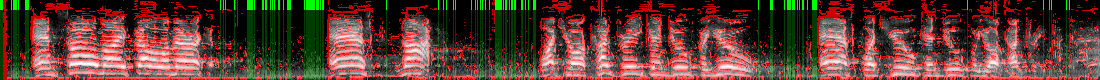
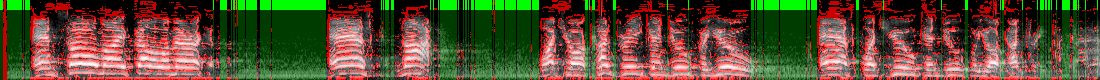
BUG FIX: whisper hallucincates if mel spec has uneven columns

diff --git a/mel_spec/src/vad.rs b/mel_spec/src/vad.rs
@@ -56,13 +56,13 @@ impl DetectionSettings {
     }
 
     /// Signals below this threshold will not be counted in edge detection.
-    /// `1 is a good default.
+    /// `1.0` is a good default.
     pub fn energy_threshold(&self) -> f64 {
         self.energy_threshold
     }
 
     /// The min length of a detectable gradient in x-asis frames.
-    /// `4` is a good default.
+    /// `10` is a good default.
     pub fn min_intersections(&self) -> usize {
         self.min_intersections
     }
@@ -120,7 +120,8 @@ impl VoiceActivityDetector {
         if buffer_len > min_frames {
             // check if we are at cutable frame position
             let window = &self.mel_buffer[buffer_len - min_intersections * 2..];
-            let ni = vad_boundaries(&window, &self.settings).non_intersected();
+            let edge_info = vad_boundaries(&window, &self.settings);
+            let ni = edge_info.non_intersected();
             if ni.len() > 0 {
                 if ni[ni.len() - 1] == ni.len() - 1 {
                     let idx = buffer_len - (min_intersections * 2);
@@ -131,7 +132,7 @@ impl VoiceActivityDetector {
                     // frames to carry forward to the new buffer
                     self.mel_buffer = self.mel_buffer[idx..].to_vec();
 
-                    if frames.len() > 0 {
+                    if frames.len() > 0 && edge_info.is_speech() {
                         return Some((cutsec, frames.clone()));
                     }
                 }
@@ -197,8 +198,8 @@ pub fn vad_boundaries(frames: &[Array2<f64>], settings: &DetectionSettings) -> E
     let mut gradient_positions = HashSet::new(); // Change Vec to HashSet
 
     for x in 0..width - 2 {
-        let num_intersections = (min_mel..height - 2)
-            .filter(|&y| gradient_mag[(y, x)] >= threshold)
+        let num_intersections = (0..height - 2)
+            .filter(|&y| gradient_mag[(y, x)] >= threshold && y >= min_mel)
             .count();
 
         if num_intersections < intersection_threshold {
@@ -210,7 +211,7 @@ pub fn vad_boundaries(frames: &[Array2<f64>], settings: &DetectionSettings) -> E
             // Store the gradient positions for this column
             for y in 0..height - 2 {
                 if gradient_mag[(y, x)] >= threshold {
-                    gradient_positions.insert((x, y - min_mel));
+                    gradient_positions.insert((x, y));
                 }
             }
         }
@@ -246,6 +247,24 @@ impl EdgeInfo {
             non_intersected_columns,
             intersected_columns,
             gradient_positions,
+        }
+    }
+
+    /// WIP. Its important to drop high energy frames that lack obvious
+    /// structure in the mel bands as these "empty" frames are highly
+    /// hallucinogenic to Whispser model.
+    pub fn is_speech(&self) -> bool {
+        let ni = self.non_intersected().len() as f32;
+        let is = self.intersected().len() as f32;
+
+        if ni == 0.0 && is == 0.0 {
+            false
+        } else if ni == 0.0 {
+            true
+        } else if is == 0.0 {
+            false
+        } else {
+            ni / is < 5.0
         }
     }
 
@@ -360,13 +379,50 @@ mod tests {
     use super::*;
     use crate::quant::{load_tga_8bit, to_array2};
 
+    //#[test]
+    fn test_speech_detection() {
+        let n_mels = 80;
+        let settings = DetectionSettings {
+            energy_threshold: 1.0,
+            min_intersections: 10,
+            intersection_threshold: 10,
+            min_mel: 0,
+            min_frames: 100,
+        };
+
+        let ids = vec![21168, 23760, 41492, 41902, 63655, 7497, 39744];
+        for id in ids {
+            let file_path = format!("../testdata/blank/frame_{}.tga", id);
+            let dequantized_mel = load_tga_8bit(&file_path).unwrap();
+            let frames = to_array2(&dequantized_mel, n_mels);
+
+            let edge_info = vad_boundaries(&[frames.clone()], &settings);
+            dbg!(edge_info.non_intersected().len() / edge_info.intersected().len());
+
+            //assert!(edge_info.gradient_count < 800);
+        }
+
+        let ids = vec![11648, 2889, 4694, 4901, 27125];
+        for id in ids {
+            let file_path = format!("../testdata/speech/frame_{}.tga", id);
+            let dequantized_mel = load_tga_8bit(&file_path).unwrap();
+            let frames = to_array2(&dequantized_mel, n_mels);
+
+            let edge_info = vad_boundaries(&[frames.clone()], &settings);
+            dbg!(edge_info.gradient_count());
+            dbg!(edge_info.non_intersected().len() / edge_info.intersected().len());
+
+            //assert!(edge_info.gradient_count > 800);
+        }
+    }
+
     #[test]
     fn test_vad_boundaries() {
         let n_mels = 80;
         let settings = DetectionSettings {
             energy_threshold: 1.0,
             min_intersections: 10,
-            intersection_threshold: 5,
+            intersection_threshold: 10,
             min_mel: 0,
             min_frames: 100,
         };

diff --git a/examples/stream_whisper/src/main.rs b/examples/stream_whisper/src/main.rs
@@ -18,6 +18,16 @@ struct Command {
     model_path: String,
     #[structopt(short, long, default_value = "./mel_out")]
     out_path: String,
+    #[structopt(long, default_value = "1.0")]
+    energy_threshold: f64,
+    #[structopt(long, default_value = "5")]
+    min_intersections: usize,
+    #[structopt(long, default_value = "10")]
+    intersection_threshold: usize,
+    #[structopt(long, default_value = "10")]
+    min_mel: usize,
+    #[structopt(long, default_value = "100")]
+    min_frames: usize,
 }
 
 fn main() {
@@ -25,13 +35,25 @@ fn main() {
     let model_path = args.model_path;
     let mel_path = args.out_path;
 
+    let energy_threshold = args.energy_threshold;
+    let min_intersections = args.min_intersections;
+    let intersection_threshold = args.intersection_threshold;
+    let min_mel = args.min_mel;
+    let min_frames = args.min_frames;
+
     let fft_size = 400;
     let hop_size = 160;
     let n_mels = 80;
     let sampling_rate = 16000.0;
 
     let mel_settings = MelConfig::new(fft_size, hop_size, n_mels, sampling_rate);
-    let vad_settings = DetectionSettings::new(1.0, 4, 10, 0, 100);
+    let vad_settings = DetectionSettings::new(
+        energy_threshold,
+        min_intersections,
+        intersection_threshold,
+        min_mel,
+        min_frames,
+    );
 
     let config = PipelineConfig::new(mel_settings, vad_settings);
 
@@ -59,7 +81,6 @@ fn main() {
             params.set_print_progress(false);
             params.set_print_realtime(false);
             params.set_print_timestamps(false);
-
             state.set_mel(&mel).unwrap();
             let empty = vec![];
             state.full(params, &empty[..]).unwrap();
@@ -79,7 +100,7 @@ fn main() {
     handles.push(handle);
 
     // read audio from pipe
-    const LEN: usize = 1024;
+    const LEN: usize = 128;
     let mut input: Box<dyn Read> = Box::new(io::stdin());
 
     let mut buffer = [0; LEN];
@@ -96,7 +117,7 @@ fn main() {
 
         if bytes_read == LEN {
             let samples = deinterleave_vecs_f32(&buffer, 1);
-            for chunk in samples[0].chunks(1024 / 4) {
+            for chunk in samples[0].chunks(LEN / 4) {
                 let _ = pipeline.send_pcm(chunk);
             }
             bytes_read = 0;

diff --git a/mel_spec/src/mel.rs b/mel_spec/src/mel.rs
@@ -85,17 +85,31 @@ pub fn interleave_frames(
     min_width: usize,
 ) -> Vec<f32> {
     let mut num_frames = frames.len();
+
     assert!(num_frames > 0, "frames is empty");
+    assert!(min_width % 2 == 0, "min_width must be even");
+
     let num_filters = frames[0].shape()[0];
+
+    let mut frames = frames.to_vec();
+
+    // Ensure an even number of frames by padding with a zeroed frame if necessary
+    // *important* mel spectrograms must have even number of columns, otherwise
+    // whisper model will give random results.
+    if num_frames % 2 != 0 {
+        frames.push(Array2::from_shape_fn((num_filters, 1), |(_, _)| 0.0));
+        num_frames += 1;
+    }
 
     // Calculate the combined width along Axis(1) of all frames
     let combined_width: usize = frames.iter().map(|frame| frame.shape()[1]).sum();
 
     // Determine the required padding
-    let padding = combined_width.max(min_width).saturating_sub(combined_width);
+    let padding = min_width.saturating_sub(combined_width);
+    let padded_width = combined_width + padding;
 
     // Create a new Array2 with the required padding
-    let padded_frame = Array2::from_shape_fn((num_filters, padding), |(_, _)| 0.0);
+    let padded_frame = Array2::from_shape_fn((num_filters, padded_width), |(_, _)| 0.0);
 
     // Insert the padded frame to the end of the frames array if padding is needed
     let mut frames_with_padding = frames.to_vec();
@@ -104,8 +118,7 @@ pub fn interleave_frames(
         num_frames += 1;
     }
 
-    let mut interleaved_data =
-        Vec::with_capacity(num_frames * num_filters * (combined_width + padding));
+    let mut interleaved_data = Vec::with_capacity(num_frames * num_filters * padded_width);
 
     if major_column_order {
         for frame_idx in 0..num_frames {

diff --git a/examples/tga_whisper/src/main.rs b/examples/tga_whisper/src/main.rs
@@ -1,0 +1,55 @@
+use mel_spec::prelude::*;
+use mel_spec::vad::{duration_ms_for_n_frames, format_milliseconds};
+use mel_spec_audio::deinterleave_vecs_f32;
+use mel_spec_pipeline::{Pipeline, PipelineConfig};
+use std::io::{self, Read};
+use std::thread;
+use structopt::StructOpt;
+use whisper_rs::*;
+
+#[derive(Debug, StructOpt)]
+#[structopt(name = "mel_spec_example", about = "mel_spec whisper example app")]
+struct Command {
+    #[structopt(
+        short,
+        long,
+        default_value = "./../../../whisper.cpp/models/ggml-medium.en.bin"
+    )]
+    model_path: String,
+    #[structopt(short, long)]
+    tga_path: String,
+}
+
+fn main() {
+    let args = Command::from_args();
+    let model_path = args.model_path;
+    let tga_path = args.tga_path;
+
+    let ctx = WhisperContext::new(&model_path).expect("failed to load model");
+    let mut state = ctx.create_state().expect("failed to create key");
+    let mel = load_tga_8bit(&tga_path).unwrap();
+
+    let mut params = FullParams::new(SamplingStrategy::Greedy { best_of: 0 });
+    params.set_n_threads(1);
+    params.set_single_segment(true);
+    params.set_language(Some("en"));
+    params.set_print_special(false);
+    params.set_print_progress(false);
+    params.set_print_realtime(false);
+    params.set_print_timestamps(false);
+
+    state.set_mel(&mel).unwrap();
+    let empty = vec![];
+    state.full(params, &empty[..]).unwrap();
+
+    let num_segments = state.full_n_segments().unwrap();
+    println!("Got {}", num_segments);
+
+    if num_segments > 0 {
+        if let Ok(text) = state.full_get_segment_text(0) {
+            println!("{}", text);
+        } else {
+            println!("Error retrieving text for segment.");
+        }
+    }
+}

diff --git a/mel_spec_pipeline/src/lib.rs b/mel_spec_pipeline/src/lib.rs
@@ -108,6 +108,7 @@ impl Pipeline {
             }
 
             if let Some((idx, frames)) = vad.flush() {
+                eprintln!("flushing vad");
                 if let Some(stt_tx) = stt_tx_clone.lock().unwrap().as_ref() {
                     let interleaved_frames = interleave_frames(&frames.clone(), false, 100);
                     if let Err(send_error) = stt_tx.send((idx, interleaved_frames)) {
@@ -174,7 +175,7 @@ mod tests {
         let sampling_rate = 16000.0;
 
         let mel_settings = MelConfig::new(fft_size, hop_size, n_mels, sampling_rate);
-        let vad_settings = DetectionSettings::new(1.0, 5, 10, 0, 100);
+        let vad_settings = DetectionSettings::new(1.0, 10, 5, 0, 100);
 
         let config = PipelineConfig::new(mel_settings, vad_settings);
 
@@ -199,6 +200,6 @@ mod tests {
             handle.join().unwrap();
         }
 
-        assert_eq!(res.len(), 10);
+        assert_eq!(res.len(), 6);
     }
 }

diff --git a/examples/tga_whisper/README.md b/examples/tga_whisper/README.md
@@ -1,0 +1,53 @@
+# Real-time example with whisper.cpp
+
+Pipe in audio from file or microphone:
+
+```
+ffmpeg -hide_banner -loglevel error -f avfoundation -i ":1" -f f32le -ar 16000 -acodec pcm_f32le -ac 1 pipe:1  | ./target/debug/mel_spec_example
+```
+
+As a temporary measure please use the [whisper-rs
+fork](https://github.com/wavey-ai/whisper-rs)
+
+```
+whisper-rs = { path = "../../whisper-rs", features = ["coreml"]}
+```
+
+## usage
+
+*IMPORTANT* TARGA mel spectrogram images used for inference will saved in
+`mel_out` for debugging purposes (you can re-run inference on each one,
+frame indexes are printed first in the stdout output. However, this folder
+will grow quickly if left running.
+
+Transcribed speech will be printed to stdout:
+
+```
+mel_spec/examples/whisper on  pipeline [✘!+?] is 📦 v0.1.0 via 🦀 v1.72.0-nightly on ☁  (us-east-1) took 7s
+❯ ffmpeg -hide_banner -loglevel error -f avfoundation -i ":1" -f f32le -ar 16000 -acodec pcm_f32le -ac 1 pipe:1  | ./target/debug/mel_spec_example
+whisper_init_from_file_no_state: loading model from './../../../whisper.cpp/models/ggml-medium.en.bin'
+whisper_model_load: loading model
+whisper_model_load: n_vocab       = 51864
+whisper_model_load: n_audio_ctx   = 1500
+whisper_model_load: n_audio_state = 1024
+whisper_model_load: n_audio_head  = 16
+whisper_model_load: n_audio_layer = 24
+whisper_model_load: n_text_ctx    = 448
+whisper_model_load: n_text_state  = 1024
+whisper_model_load: n_text_head   = 16
+whisper_model_load: n_text_layer  = 24
+whisper_model_load: n_mels        = 80
+whisper_model_load: ftype         = 1
+whisper_model_load: qntvr         = 0
+whisper_model_load: type          = 4
+whisper_model_load: mem required  = 1899.00 MB (+   43.00 MB per decoder)
+whisper_model_load: adding 1607 extra tokens
+whisper_model_load: model ctx     = 1462.58 MB
+whisper_model_load: model size    = 1462.12 MB
+whisper_init_state: kv self size  =   42.00 MB
+whisper_init_state: kv cross size =  140.62 MB
+whisper_init_state: loading Core ML model from './../../../whisper.cpp/models/ggml-medium.en-encoder.mlmodelc'
+whisper_init_state: first run on a device may take a while ...
+whisper_init_state: Core ML model loaded
+1136 [00:00:11.360]  once upon a time.
+```
